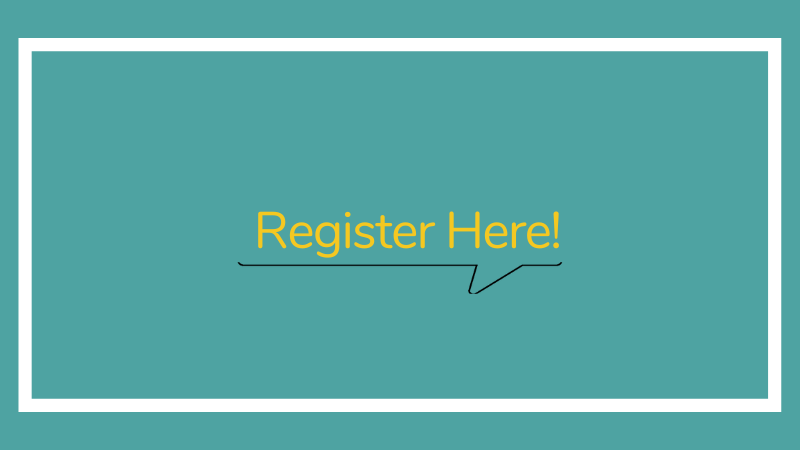
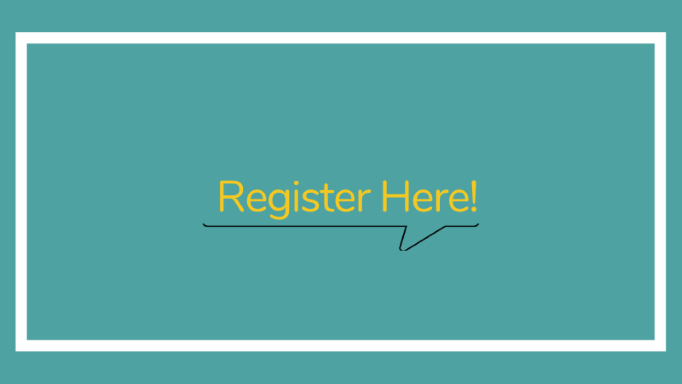
fix months for new Ama

Changed region(s): [[0.6158, 0.5, 0.6466, 0.5312]]

diff --git a/content/careers.md b/content/careers.md
@@ -3,9 +3,7 @@ description: Career Connection
 title: "Career Connection"
 ---
 
-<a href="https://forms.gle/nCJDEtZNRiWVXJqf6"><img src="/img/reg_button.png" alt="Registration button" /></a>
-
-<img src="/img/reg_button.png" alt="Registration button" />
+<a href="https://forms.gle/nCJDEtZNRiWVXJqf6"><img src="/img/reg_button.png" alt="Registration button" width="500" height="250"/></a>
 
 
 ## March: Dr. Sara Bleich

diff --git a/content/blog/2023-03-07-ama-march/index.en.md b/content/blog/2023-03-07-ama-march/index.en.md
@@ -1,8 +1,8 @@
 ---
 banner: img/AMA/Sara_Bleich.png
-title: November Career Conversations - Nutrition Security and Health Equity at the USDA
+title: March Career Conversations - Nutrition Security and Health Equity at the USDA
 author: Isabel Ramos
-date: '2023-2-22'
+date: '2023-02-22'
 slug: ama-march
 categories: []
 tags: []

diff --git a/content/blog/2023-02-10-ama-feb/index.en.md b/content/blog/2023-02-10-ama-feb/index.en.md
@@ -1,6 +1,6 @@
 ---
 banner: img/AMA/Ricardo_Aguilar.png
-title: November Career Conversations - Data to Advance Pediatric Care
+title: February Career Conversations - Data to Advance Pediatric Care
 author: Isabel Ramos
 date: '2023-01-29'
 slug: ama-feb
